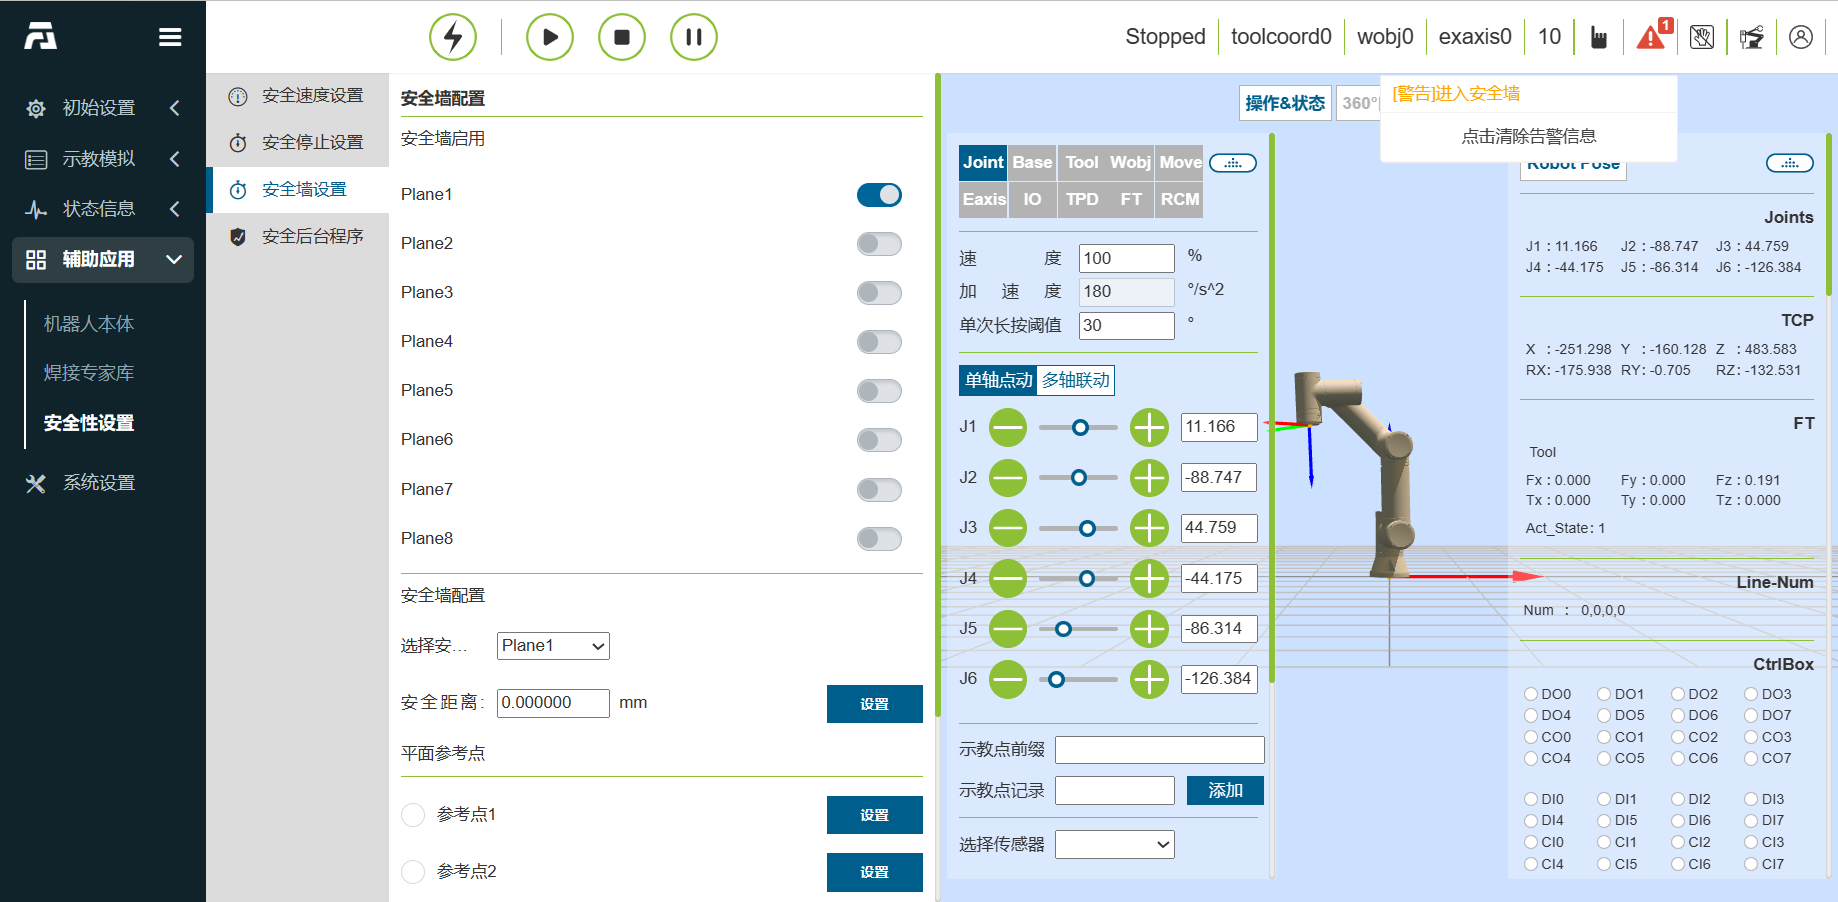
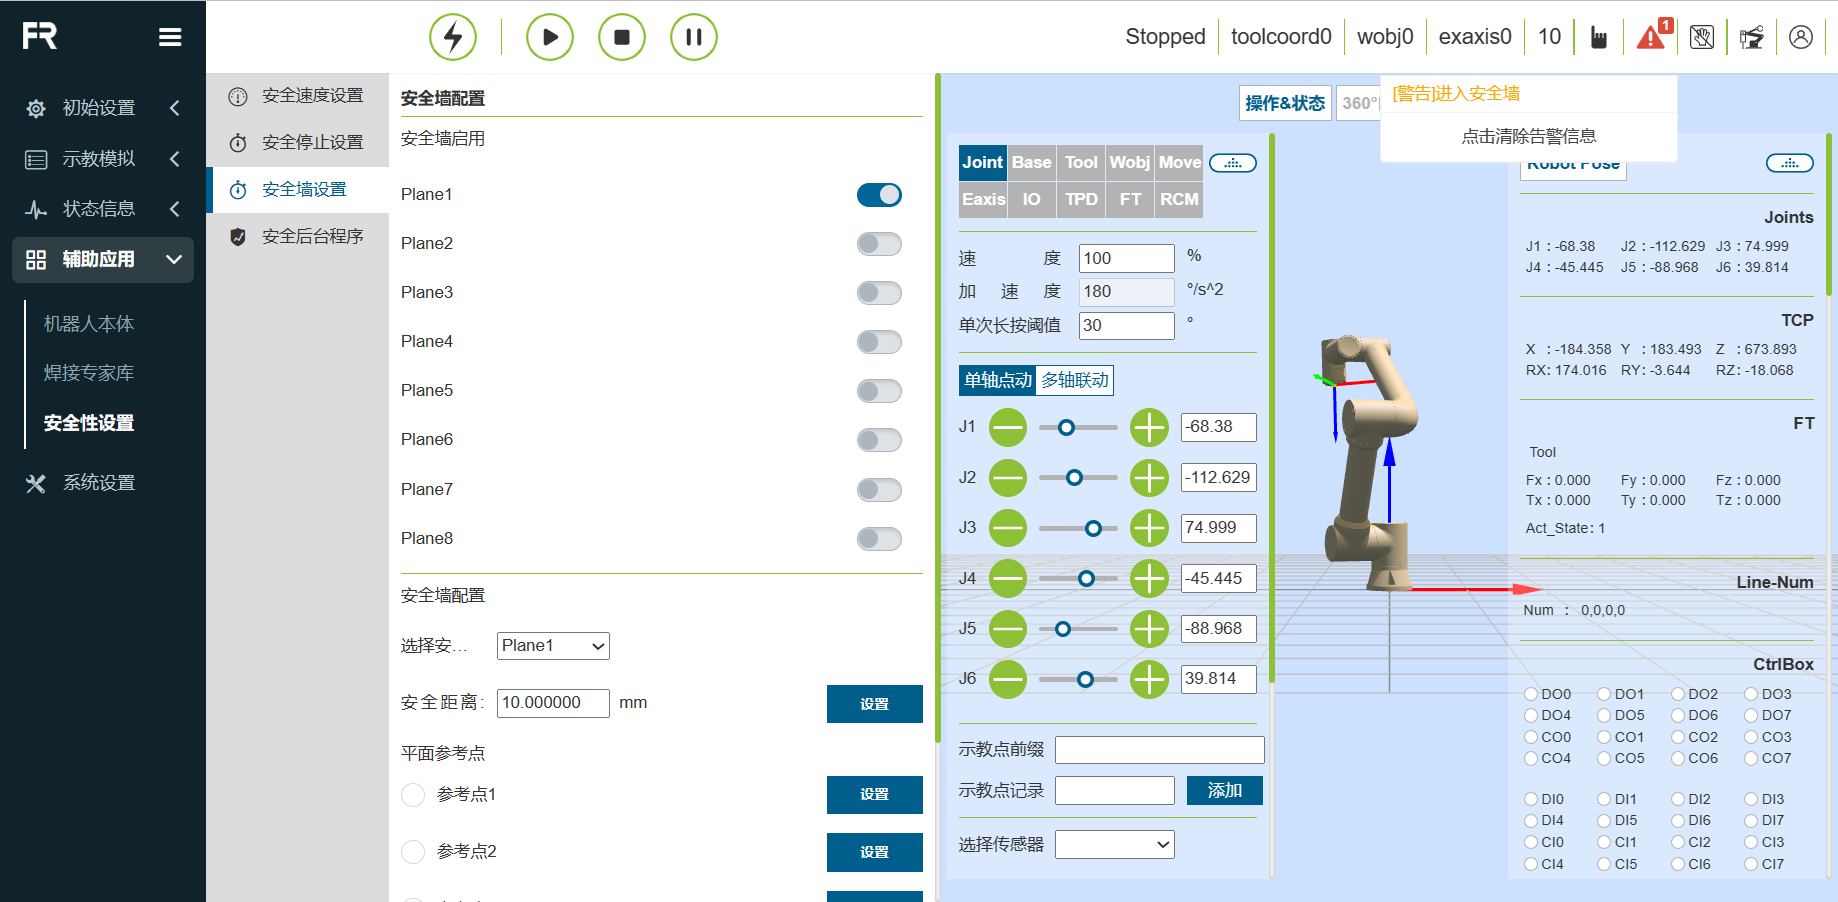
Update new teaching_pendant 8/4

diff --git a/source/CobotsManual/teaching_pendant_software.rst b/source/CobotsManual/teaching_pendant_software.rst
@@ -2451,7 +2451,7 @@ MoveDO命令
 
 在“辅助应用”中的“安全性设置”的菜单栏下，点击“安全墙配置”进入安全墙配置功能界面。
 
--  **安全墙配置**：点击启用按钮，可启用的相应的安全墙。当安全墙未配置安全范围时，会提示报错。点击下拉框，选择想要设定的安全墙，自动带出安全距离(可不设置，默认位0),再点击“设置”按钮，设置成功。
+-  **安全墙配置**：点击启用按钮，可启用的相应的安全墙。当安全墙未配置安全范围时，会提示报错。点击下拉框，选择想要设定的安全墙，自动带出安全距离(可不设置，默认为0),再点击“设置”按钮，设置成功。
   
 .. image:: teaching_pendant_software/190.png
    :width: 6in
@@ -2461,7 +2461,8 @@ MoveDO命令
 
 -  **安全墙参考点配置**：选择安全墙后，可设置四个参考点。前三个点为平面参考点，用来确认设置的安全墙的平面。第四个点为安全范围参考点，用来确认设置的安全墙的安全范围。
 
--  注：若参考点设置成功，则亮绿灯。反之，则亮黄灯。直到参考点设置成功后转为绿灯。当四个参考点都设置成功后，可计算其安全范围，计算成功后安全范围参数点状态恢复默认。
+.. important::
+   若参考点设置成功，则亮绿灯。反之，则亮黄灯。直到参考点设置成功后转为绿灯。当四个参考点都设置成功后，可计算其安全范围，计算成功后安全范围参数点状态恢复默认。
 
 .. image:: teaching_pendant_software/191.png
    :width: 6in
@@ -2469,7 +2470,7 @@ MoveDO命令
 
 .. centered:: 图表 3.9‑34 安全范围参考点设置
 
--  现象：启用配置成功的安全墙。拖动机器人，若处在设定安全范围内，则系统正常。若处在设定安全范围之外，则提示报错。
+-  应用效果：启用配置成功的安全墙。拖动机器人，若机器人末端TCP处在设定安全范围内，则系统正常。若处在设定安全范围之外，则提示报错。
 
 .. image:: teaching_pendant_software/192.png
    :width: 6in
@@ -2535,7 +2536,7 @@ MoveDO命令
 用户管理
 ++++++++++++++++
 
-用户管理页面，用来保存用户信息，可以添加用户的工号、职能等。用户可通过已有的用户列表进行手动登录或者刷卡登录操作。
+用户管理页面，用来保存用户信息，可以添加用户的工号、职能等。用户可通过输入用户列表中已有的用户名和密码进行登录操作。
 
 .. image:: teaching_pendant_software/186.png
    :width: 6in
@@ -2543,7 +2544,10 @@ MoveDO命令
 
 .. centered:: 图表 3.10‑2 用户管理
 
--  **新增用户**：点击“新增”按钮，输入工号、姓名、密码并选择职能。注：工号为10位整数型，工号和密码都有唯一性校验，且密码通过盲文显示。用户新增成功后，可以输入姓名和密码进行重新登录。
+-  **新增用户**：点击“新增”按钮，输入工号、姓名、密码并选择职能。
+
+.. important::
+   工号最大为10位整数型，工号和密码都有唯一性校验，且密码通过盲文显示。用户新增成功后，可以输入姓名和密码进行重新登录。
   
 .. image:: teaching_pendant_software/187.png
    :width: 6in
@@ -2559,7 +2563,14 @@ MoveDO命令
 
 .. centered:: 图表 3.10‑4 编辑用户
 
--  **删除用户**：删除方法分为单条删除和批量删除。1.点击列表右侧单条“删除”按钮，提示“请再次点击删除按钮以确认删除”，再次点击该列表删除成功。2.点击左侧复选框，选择需要删除的用户，再点击列表上方批量“删除”按钮两次后删除。注：初始用户111以及当前登录用户无法删除。
+-  **删除用户**：删除方法分为单条删除和批量删除。
+  
+  1.点击列表右侧单条“删除”按钮，提示“请再次点击删除按钮以确认删除”，再次点击该列表删除成功。
+
+  2.点击左侧复选框，选择需要删除的用户，再点击列表上方批量“删除”按钮两次后删除。
+
+.. important::
+   初始用户111以及当前登录用户无法删除。
 
 .. image:: teaching_pendant_software/189.png
    :width: 6in
@@ -2663,11 +2674,12 @@ MoveDO命令
 参数范围配置
 ++++++++++++++++
 
-参数范围配置，只有管理员可进行参数范围的调节，超级管理员只读，其他权限成员的参数只可在管理员设定的参数范围之内设定。
+参数范围配置，只有管理员可进行参数范围的调节，其他权限成员的参数只可在管理员设定的参数范围之内设定。
 
 参数设定方式分为两种：滑块拖动和手动输入。
 
-注：参数范围最大值必须大于最小值。参数范围配置成功3秒后，自动跳转到登录页，需重新登陆。
+.. important::
+   参数范围最大值必须大于最小值。参数范围配置成功3秒后，自动跳转到登录页，需重新登陆。
 
 .. image:: teaching_pendant_software/193.png
    :width: 6in
